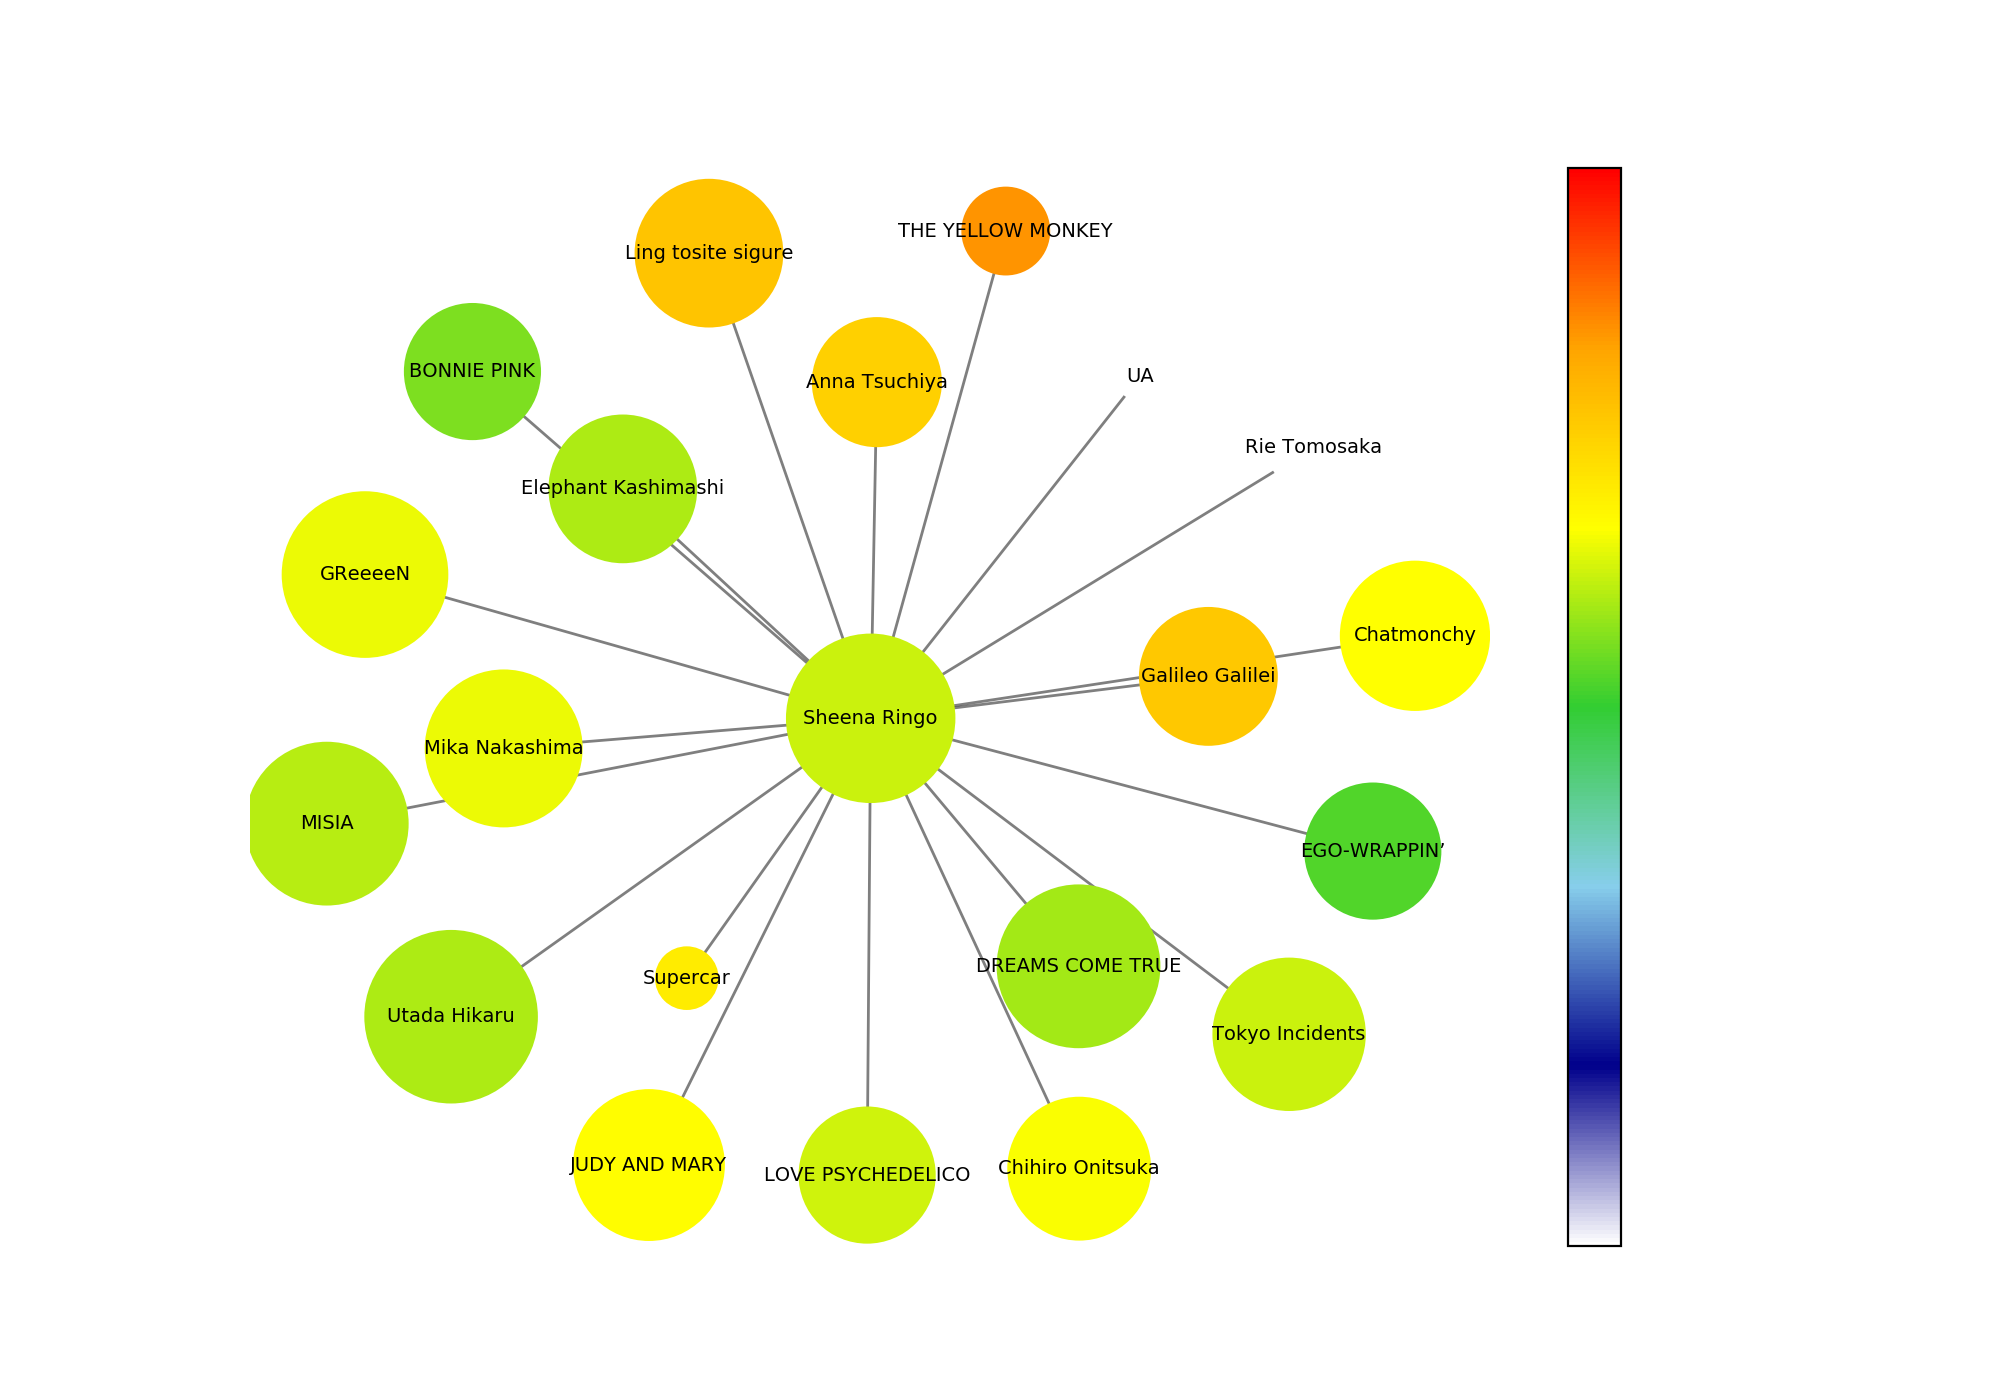
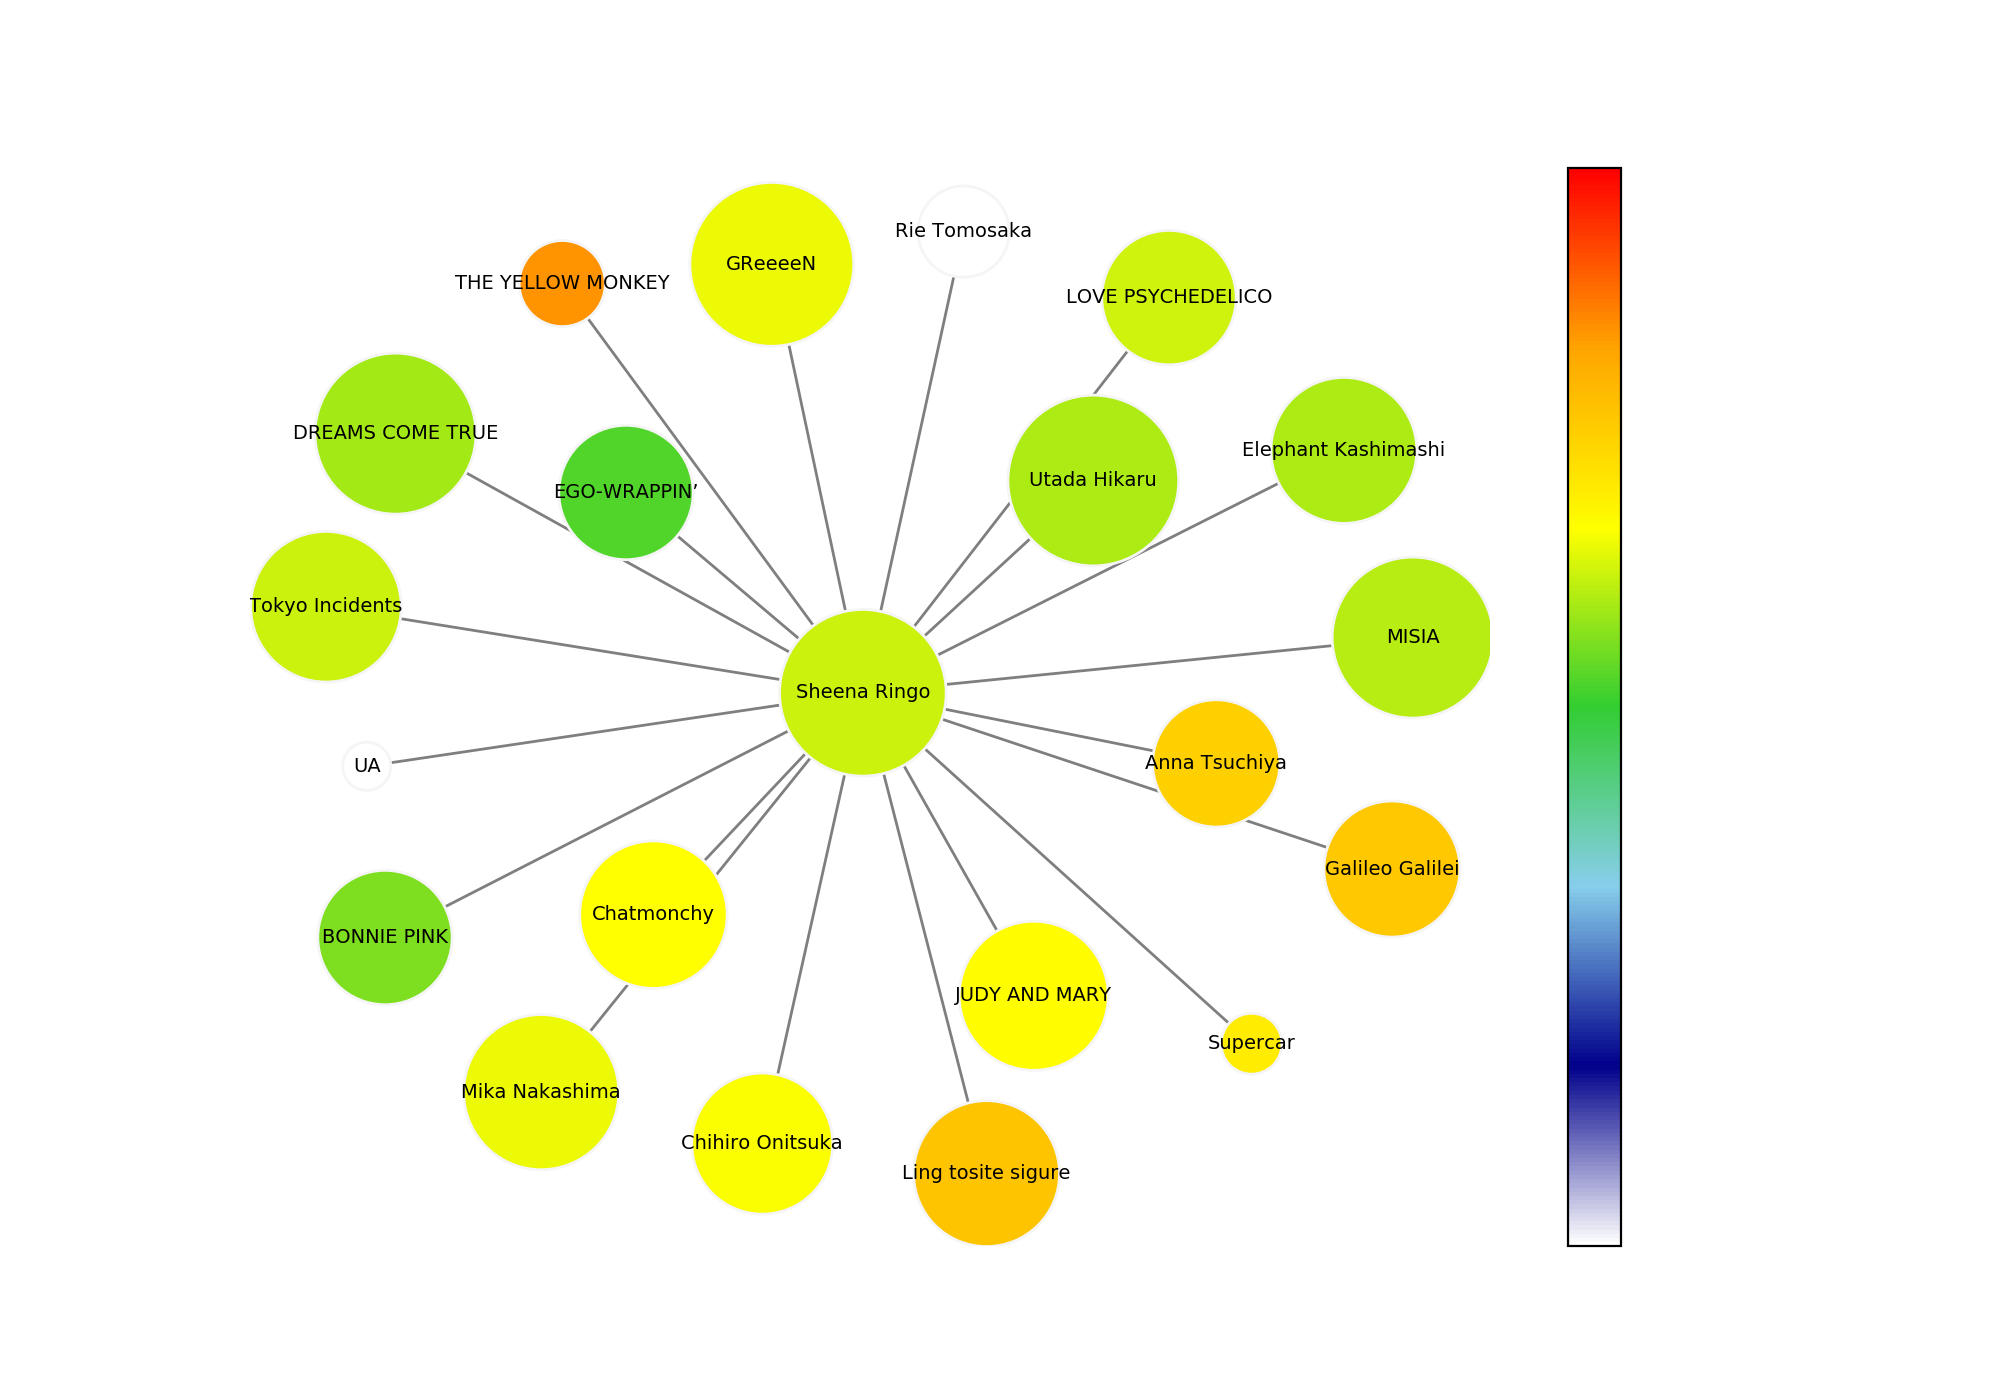
[fix] ノードに枠線が表示されるように変更

Changed region(s): [[0.124, 0.1229, 0.744, 0.8907], [0.62, 0.2457, 0.713, 0.3686]]

diff --git a/artists_network.py b/artists_network.py
@@ -110,7 +110,8 @@ class ArtistsNetwork():
         node_size = [60 * self.artist_popularity]
         for popularity in self.related_artist_popularities:
             node_size.append(60 * popularity)
-        nx.draw_networkx_nodes(G, pos, node_color=node_color, cmap=node_color_map, node_size=node_size, vmin=0, vmax=self.max_value)
+        nodes = nx.draw_networkx_nodes(G, pos, node_color=node_color, cmap=node_color_map, node_size=node_size, vmin=0, vmax=self.max_value)
+        nodes.set_edgecolor('#f5f5f5')
         nx.draw_networkx_labels(G, pos, font_size=7)
         nx.draw_networkx_edges(G, pos, alpha=0.5)
         plt.axis('off')
